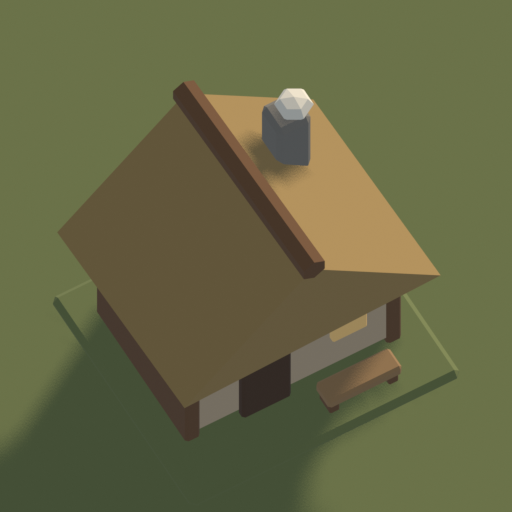
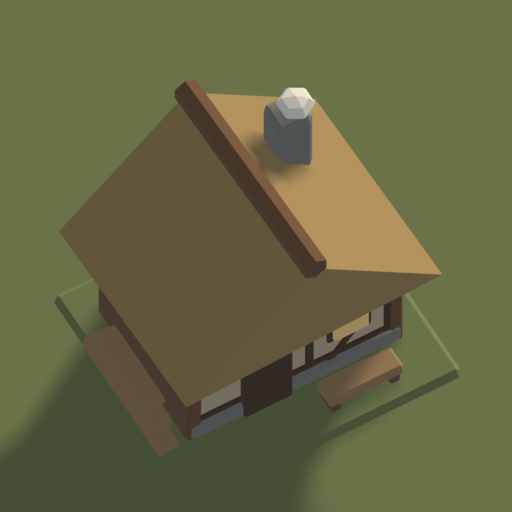
Fun first F1, the Cottage and the Flinger (the target frames): the Cottage half-timbered on a stone footing, a framed window, a woodpile; the Sapling Flinger chunkier on four wheels, a little siege engine. F1's six models are remade
Blender pipeline tests 38 passed; EditMode 335, PlayMode 60 passed.

diff --git a/art/blender/models/sapling_flinger.py b/art/blender/models/sapling_flinger.py
@@ -10,14 +10,18 @@ def build():
     tower = root("sapling_flinger")
     base = (Part("Base", parent=tower)
             .box((0.8, 0.5, 0.14), (0, 0, 0.07), "old_wood", bevel=0.02, rotation=(0, 0, 3))         # sledge
-            .box((0.08, 0.08, 0.7), (0.3, -0.18, 0.45), "old_wood", bevel=0.012, rotation=(3, -6, 0))  # frame post
-            .box((0.08, 0.08, 0.7), (0.3, 0.18, 0.45), "old_wood", bevel=0.012, rotation=(-3, -4, 0))
+            .box((0.11, 0.11, 0.7), (0.3, -0.18, 0.45), "old_wood", bevel=0.02, rotation=(3, -6, 0))   # frame post (chunkier: remodel F)
+            .box((0.11, 0.11, 0.7), (0.3, 0.18, 0.45), "old_wood", bevel=0.02, rotation=(-3, -4, 0))
             .box((0.08, 0.5, 0.08), (0.28, 0, 0.78), "tarred_wood", bevel=0.012)                     # crossbar the arm hits
             .cylinder(0.035, 0.14, (0.28, 0, 0.84), "thatch", segments=6, rotation=(90, 0, 0))       # rope padding
             .cylinder(0.11, 0.18, (-0.3, 0, 0.23), "fresh_log", segments=8)                           # root ball of the sapling
             .cylinder(0.02, 0.5, (-0.05, 0.0, 0.32), "thatch", segments=5, rotation=(0, 70, 0)))     # lashing rope
     for x, y, r in ((0.12, -0.3, 0.07), (0.2, -0.36, 0.06), (0.05, -0.38, 0.055), (0.16, -0.25, 0.05)):
         base.sphere(r, (x, y, 0.14 + r * 0.7), "fieldstone", segments=6, rings=4)                    # ammunition
+    for x in (-0.26, 0.26):
+        for y in (-0.29, 0.29):
+            base.cylinder(0.11, 0.06, (x, y, 0.11), "tarred_wood", segments=10, rotation=(90, 0, 0))      # wheels (the target's siege frame)
+            base.cylinder(0.035, 0.07, (x, y, 0.11), "fresh_log", segments=6, rotation=(90, 0, 0))        # hubs
     base_obj = base.build()
 
     # The sapling: trunk bent back over the frame, leafy tuft, sling cup with a rock at the tip.

diff --git a/art/blender/models/cottage.py b/art/blender/models/cottage.py
@@ -20,6 +20,17 @@ def build():
     b.box((0.14, 0.03, 0.12), (0.22, -0.27, 0.32), "window", bevel=0.005)
     b.box((0.14, 0.14, 0.32), (0.25, 0.22, 0.86), "fieldstone", bevel=0.02)                            # chimney
     b.sphere(0.07, (0.27, 0.2, 1.08), "linen", segments=6, rings=4, scale=(1.0, 1.0, 0.7))             # smoke puff
+    # The remodel (the target frame day-final): half-timbering, a stone footing, a framed window, a woodpile.
+    b.box((0.86, 0.66, 0.08), (0, 0.05, 0.09), "fieldstone", bevel=0.02, bevel_segments=2)            # stone footing
+    for x in (0.06, 0.38):
+        b.box((0.035, 0.025, 0.3), (x, -0.255, 0.28), "tarred_wood", bevel=0.006)                       # studs
+    b.box((0.035, 0.025, 0.36), (0.22, -0.255, 0.22), "tarred_wood", bevel=0.006, rotation=(0, 38, 0))  # the cross brace
+    b.box((0.8, 0.025, 0.035), (0, -0.255, 0.15), "tarred_wood", bevel=0.006)                          # sill beam
+    b.box((0.18, 0.026, 0.16), (0.22, -0.257, 0.32), "tarred_wood", bevel=0.006)                       # window frame
+    for k in range(3):
+        for j in range(3 - k):
+            b.cylinder(0.045, 0.34, (-0.52, -0.1 + j * 0.095 + k * 0.047, 0.07 + k * 0.08), "fresh_log", segments=7,
+                       rotation=(90, 0, 0))                                                                # the woodpile
     b.box((0.3, 0.1, 0.05), (0.2, -0.38, 0.12), "fresh_log", bevel=0.01)                               # bench
     for x in (0.08, 0.32):
         b.box((0.04, 0.08, 0.1), (x, -0.38, 0.05), "old_wood", bevel=0.005)
